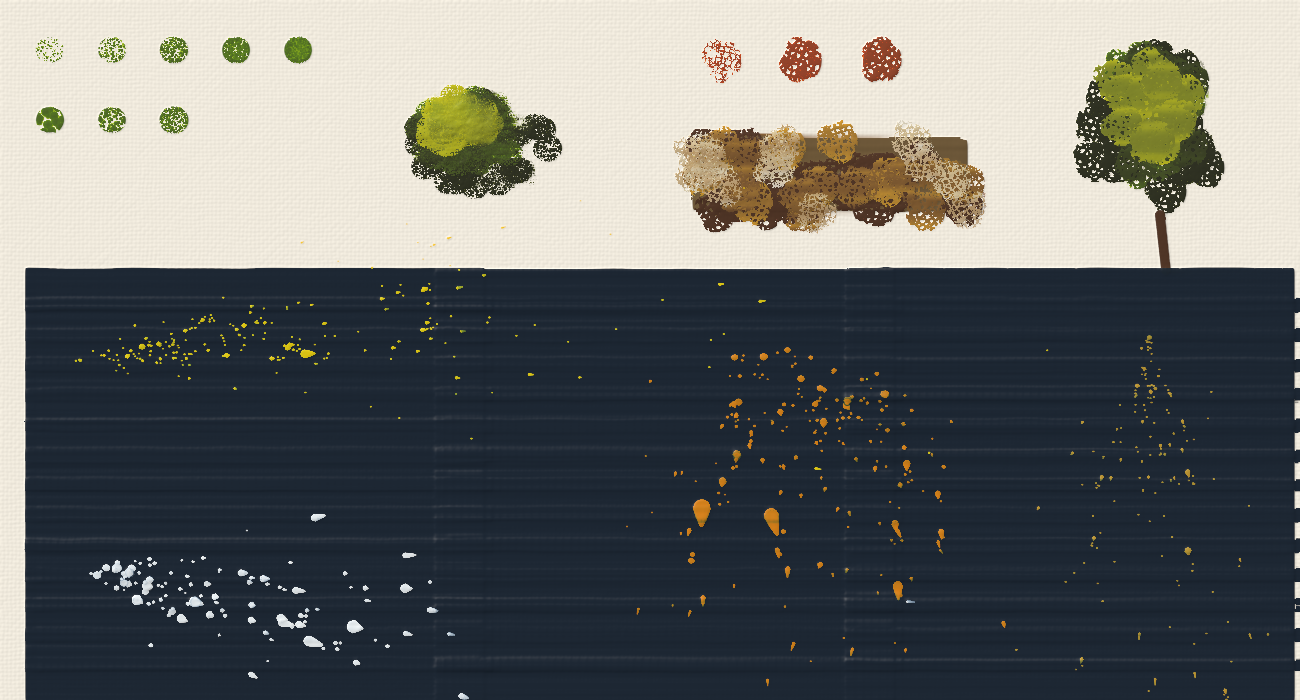
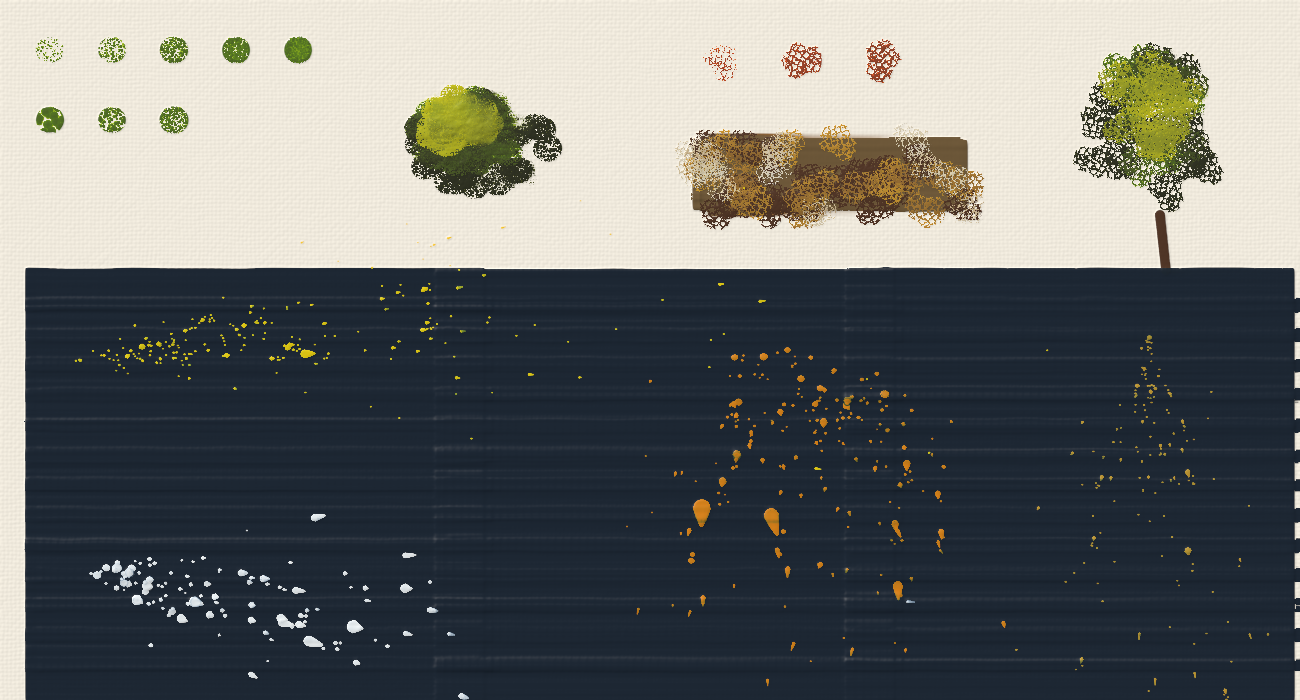
An open, lumpy sponge; sponge the Courbet in layers of value
The sponge's face is now an open web on an uneven lump: a light press
prints a few clusters that spread as it is pressed harder, the holes stay
open, and the outline is irregular, where it used to print a round,
nearly solid disc.

The Courbet study (work in progress) loads the sponge lightly and dabs it
on in layers of value over a brushed lay-in: the middle tones, then the lit
planes, then the lights, each let dry.

Claude-Session: https://claude.ai/code/session_01EHReofpAhaQxxUm8vHfAMo

Changed region(s): [[0.5231, 0.18, 0.7692, 0.33], [0.8308, 0.06, 0.9538, 0.3], [0.5231, 0.06, 0.7077, 0.12]]

diff --git a/examples/courbet_loue.py b/examples/courbet_loue.py
@@ -2,14 +2,15 @@
 
 Painted from a photograph of the painting (The Metropolitan Museum of Art,
 New York; public domain; ``examples/reference``) the way Courbet painted his
-rocks: on a dark ground, the masses laid in thinly with a broad brush, then
-the stone built up light over dark almost entirely with sponges, big ones
-first and smaller ones over them, their uneven prints, with the dark showing
-through their holes, giving it its grain; the falling water laid on with the
-palette knife; and only the darkest lines, the cracks, the timbers of the
-mill and its windows, drawn with a small brush. Each pass looks at the canvas
-so far and prints or paints only where it still differs from the photograph
-(see ``_studies``).
+rocks: on a dark ground, the masses and the dark clefts laid in with a broad
+brush; then, once that is dry, the stone built up light over dark with a
+sponge, loaded lightly and dabbed on in layers of value, each left to dry:
+the middle tones over the rock, lighter prints only on its lit planes, and
+the brightest pressed most lightly of all, so that the darker layers show
+through the sponge's holes as the grain of the stone. The falling water is
+laid on with the palette knife, and the darkest cracks drawn again with a
+small brush. The brushwork and the knife go only where the canvas still
+differs from the photograph (see ``_studies``).
 
     python examples/courbet_loue.py [output.png]
 """
@@ -36,45 +37,49 @@ def log(msg):
     print(f"[{time.strftime('%H:%M:%S')}] {msg}", flush=True)
 
 
-def sponged(study, size, spacing, scale, where, pressure, lift=1.05, threshold=3.0):
-    """Sponge prints where the canvas still lacks the stone's colour: the
-    photograph's colour there, a touch lighter (the darker paint beneath shows
-    through the sponge's holes)."""
-    target, lacking, err = study.gap(size, scale)
-    xs, ys = study.points(spacing, where & (err > threshold))
+def sponged(study, size, spacing, scale, where, pressure, lift=1.0, load=0.6):
+    """A layer of sponge prints about ``spacing`` apart over ``where``. The
+    sponge is loaded lightly (dabbed off on the palette first: ``load`` per
+    print) with the photograph's colour there, nudged towards what the canvas
+    still lacks and ``lift``-ed (the darker layers show through its holes),
+    and a few prints are made from each loading, the sponge turned each
+    time."""
+    target, lacking, _ = study.gap(size, scale)
+    xs, ys = study.points(spacing, where)
     groups = defaultdict(list)
     paints = {}
     for x, y in zip(xs, ys, strict=True):
         yi, xi = int(y), int(x)
         rgb = (
-            (target[yi, xi] + 0.6 * lacking[yi, xi])
+            (target[yi, xi] + 0.4 * lacking[yi, xi])
             * lift
-            * study.rng.uniform(0.94, 1.06)
+            * study.rng.uniform(0.95, 1.05)
         )
         paint = study.paint(rgb)
         groups[id(paint)].append((x, y))
         paints[id(paint)] = paint
     batches = []
     for key, pts in groups.items():
-        batches.extend((paints[key], pts[k : k + 4]) for k in range(0, len(pts), 4))
+        batches.extend((paints[key], pts[k : k + 5]) for k in range(0, len(pts), 5))
     sponge = brushes.SPONGE.sized(size)
     for k in study.rng.permutation(len(batches)):
         paint, pts = batches[k]
+        jitter = study.rng.uniform(0.85, 1.15, len(pts))
         study.c.stipple(
-            pts, paint, amount=3.0 * len(pts) + 4, pressure=pressure, brush=sponge
+            pts, paint, amount=load * len(pts), pressure=pressure * jitter, brush=sponge
         )
     return len(xs)
 
 
 def foam(study, where, threshold=5.0):
-    """The brightest foam on the falling water: small strokes of the palette
-    knife, following the flow."""
+    """The falling water and its foam: small strokes of the palette knife,
+    following the flow."""
     target, lacking, err = study.gap(10, 1.5)
     xs, ys = study.points(6, where & (err > threshold))
     knife = brushes.KNIFE_SMALL
     for x, y in zip(xs, ys, strict=True):
         a, _ = study.ref.direction(x, y, scale=4)
-        d = study.rng.uniform(4, 8)
+        d = study.rng.uniform(5, 10)
         pts = [
             (x - d * np.cos(a), y - d * np.sin(a)),
             (x + d * np.cos(a), y + d * np.sin(a)),
@@ -95,37 +100,35 @@ def paint_it(path):
     study = Study(c, ref, seed=1864, body=0.55)
     ys, xs = np.mgrid[0:h, 0:W]
     value = np.asarray(ref.value(xs, ys, scale=3))
-    water_mask = (value > 0.6) & (ys > 0.4 * h) & (xs > 0.2 * W)
-    log("lay-in")
+    around = np.asarray(ref.value(xs, ys, scale=12))
+    water = (value > 0.6) & (ys > 0.4 * h) & (xs > 0.2 * W)
+    rock = ~water
+    log("lay-in: the masses and the clefts")
     study.layer(56, brushes.FLAT_HOG, straight=True, load=0.5, pressure=0.5)
+    study.layer(28, brushes.FLAT_HOG, threshold=5.0, load=0.5, pressure=0.5)
     c.dry()
-    # everything sponged, big sponges to small ones: pressed lightly at first,
-    # so each print is a lacy web and they build up a grain (the dark showing
-    # through), then the smallest sponge pressed harder for the edges; each
-    # pass let dry so the next does not lift it again
+    # the sponge, in layers of value, each let dry: the middle tones over the
+    # rock, then lighter prints only where the stone catches the light (lighter
+    # than around it), then the brightest, pressed most lightly
     n = 0
-    passes = (
-        (44, 12, 6, 0.0, 0.2),
-        (44, 12, 6, 3.0, 0.2),
-        (30, 8, 4, 3.0, 0.2),
-        (20, 6, 2.5, 4.0, 0.22),
-        (14, 4.5, 1.5, 5.0, 0.25),
-        (10, 3.5, 1.0, 6.0, 0.3),
-    )
-    everywhere = np.ones((h, W), bool)
-    for size, spacing, scale, threshold, pressure in passes:
-        log(f"sponge {size}px ({n} prints so far)")
-        n += sponged(
-            study, size, spacing, scale, everywhere, pressure, threshold=threshold
-        )
+    layers = (
+        ("middle tones", 40, 12, 5, rock & (value > 0.22), 0.35, 1.0),
+        ("middle tones", 28, 9, 3, rock & (value > 0.3), 0.3, 1.0),
+        ("the lit planes", 26, 8, 2.5, rock & (value > 0.42) & (value > around), 0.24,
+         1.06),
+        ("the lights", 18, 6, 1.5, rock & (value > 0.58) & (value > around + 0.04),
+         0.17, 1.12),
+    )  # fmt: skip
+    for name, size, spacing, scale, where, pressure, lift in layers:
+        log(f"sponge {size}px: {name} ({n} prints so far)")
+        n += sponged(study, size, spacing, scale, where, pressure, lift)
         c.dry()
-    log("knife: the foam")
-    k = foam(study, water_mask & (value > 0.75))
+    log("knife: the falling water")
+    k = foam(study, water, threshold=3.0)
     c.dry()
-    # a brush only for the darkest thin lines
-    log("the cracks, the timbers, the windows")
-    study.layer(3, brushes.LINER, threshold=12.0, length=8, load=0.6, pressure=0.45,
-                where=value < 0.3)  # fmt: skip
+    log("the darkest cracks")
+    study.layer(4, brushes.ROUND, threshold=10.0, length=4, load=0.6, pressure=0.45,
+                where=value < 0.28)  # fmt: skip
     c.save(path, relief=0.45, gloss=0.5)
     print(f"wrote {path}: {study.strokes} brush strokes, {n} sponge prints, "
           f"{k} knife strokes, in {time.time() - t0:.0f} s")  # fmt: skip

diff --git a/oilpaint/_dab.py b/oilpaint/_dab.py
@@ -8,8 +8,9 @@ one more of the face.
 
 * bristles: separate tips, clumps of bristle ends of slightly different
   lengths, each a little cone (a harder tap spreads it into a bigger dot);
-* sponge: an irregular web of walls around holes, the surface uneven, the
-  outline ragged; the holes stay open however hard it is pressed.
+* sponge: an open web of walls around holes on an uneven lump, the outline
+  irregular; a light press prints a few clusters, and the holes stay open
+  however hard it is pressed.
 
 A brush keeps its layout (it comes from the brush type), turned to a new
 angle on every tap, as a painter's hand turns.
@@ -95,23 +96,27 @@ def _cells(X, Y, spacing, rng, wall):
 
 
 def _sponge(n, spacing, rng):
-    """A sea sponge's face: big holes and small pores in an uneven web, some
-    parts standing proud (they print first), the outline ragged."""
+    """A sea sponge's face: big holes and small pores in an open web, on a lump
+    (the middle and the proud bumps touch first, so a light press prints a
+    few clusters that spread as it is pressed harder), the outline uneven."""
     X, Y = _coords(n)
-    web = _cells(X, Y, spacing, rng, 0.75) * (
-        0.35 + 0.65 * _cells(X, Y, 0.4 * spacing, rng, 0.9)
+    web = _cells(X, Y, spacing, rng, 0.5) * (
+        0.15 + 0.85 * _cells(X, Y, 0.4 * spacing, rng, 0.7)
     )
-    rough = fractal_noise_2d(n, n, n / 6.0, rng, octaves=3)
-    rough = (rough - rough.min()) / max(np.ptp(rough), 1e-9)
-    face = web * (0.2 + 0.8 * rough)
-    # a ragged outline
+    bumps = fractal_noise_2d(n, n, n / 4.0, rng, octaves=3)
+    bumps = (bumps - bumps.min()) / max(np.ptp(bumps), 1e-9)
+    # an uneven outline, and a dome under it
     ang = np.arctan2(Y, X)
-    edge = (
+    edge = 0.85 * (
         1.0
-        + 0.08 * np.sin(3 * ang + rng.uniform(0, 6))
+        + 0.16 * np.sin(2 * ang + rng.uniform(0, 6))
+        + 0.10 * np.sin(3 * ang + rng.uniform(0, 6))
         + 0.06 * np.sin(5 * ang + rng.uniform(0, 6))
     )
-    return face * _smoothstep(edge, edge - 0.18, np.hypot(X, Y))
+    r = np.hypot(X, Y) / edge
+    dome = np.sqrt(np.clip(1.0 - r * r, 0.0, 1.0))
+    face = web * (0.1 + 0.45 * dome + 0.45 * bumps)
+    return face * _smoothstep(1.0, 0.85, r)
 
 
 @functools.lru_cache(maxsize=64)
